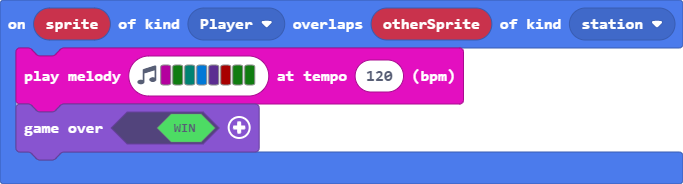
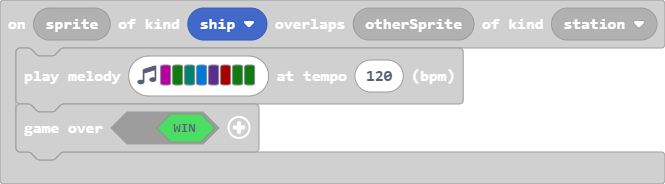
Update main.blocks, main.ts

diff --git a/main.ts b/main.ts
@@ -24,10 +24,6 @@ function setLevel (num: number) {
         tiles.setTilemap(tilemap`level2`)
     }
 }
-sprites.onOverlap(SpriteKind.Player, SpriteKind.station, function (sprite, otherSprite) {
-    music.playMelody("C G F E D C5 G G ", 120)
-    game.over(true)
-})
 scene.onOverlapTile(SpriteKind.Player, assets.tile`myTile19`, function (sprite, location) {
     if (0 == FirstTools) {
         bb8.sayText("These Are your tools", 1000, true)
@@ -74,6 +70,10 @@ controller.B.onEvent(ControllerButtonEvent.Pressed, function () {
             music.magicWand.play()
         }
     }
+})
+sprites.onOverlap(SpriteKind.ship, SpriteKind.station, function (sprite, otherSprite) {
+    music.playMelody("C G F E D C5 G G ", 120)
+    game.over(true)
 })
 scene.onOverlapTile(SpriteKind.Player, assets.tile`myTile15`, function (sprite, location) {
     if (0 == Fixed) {
